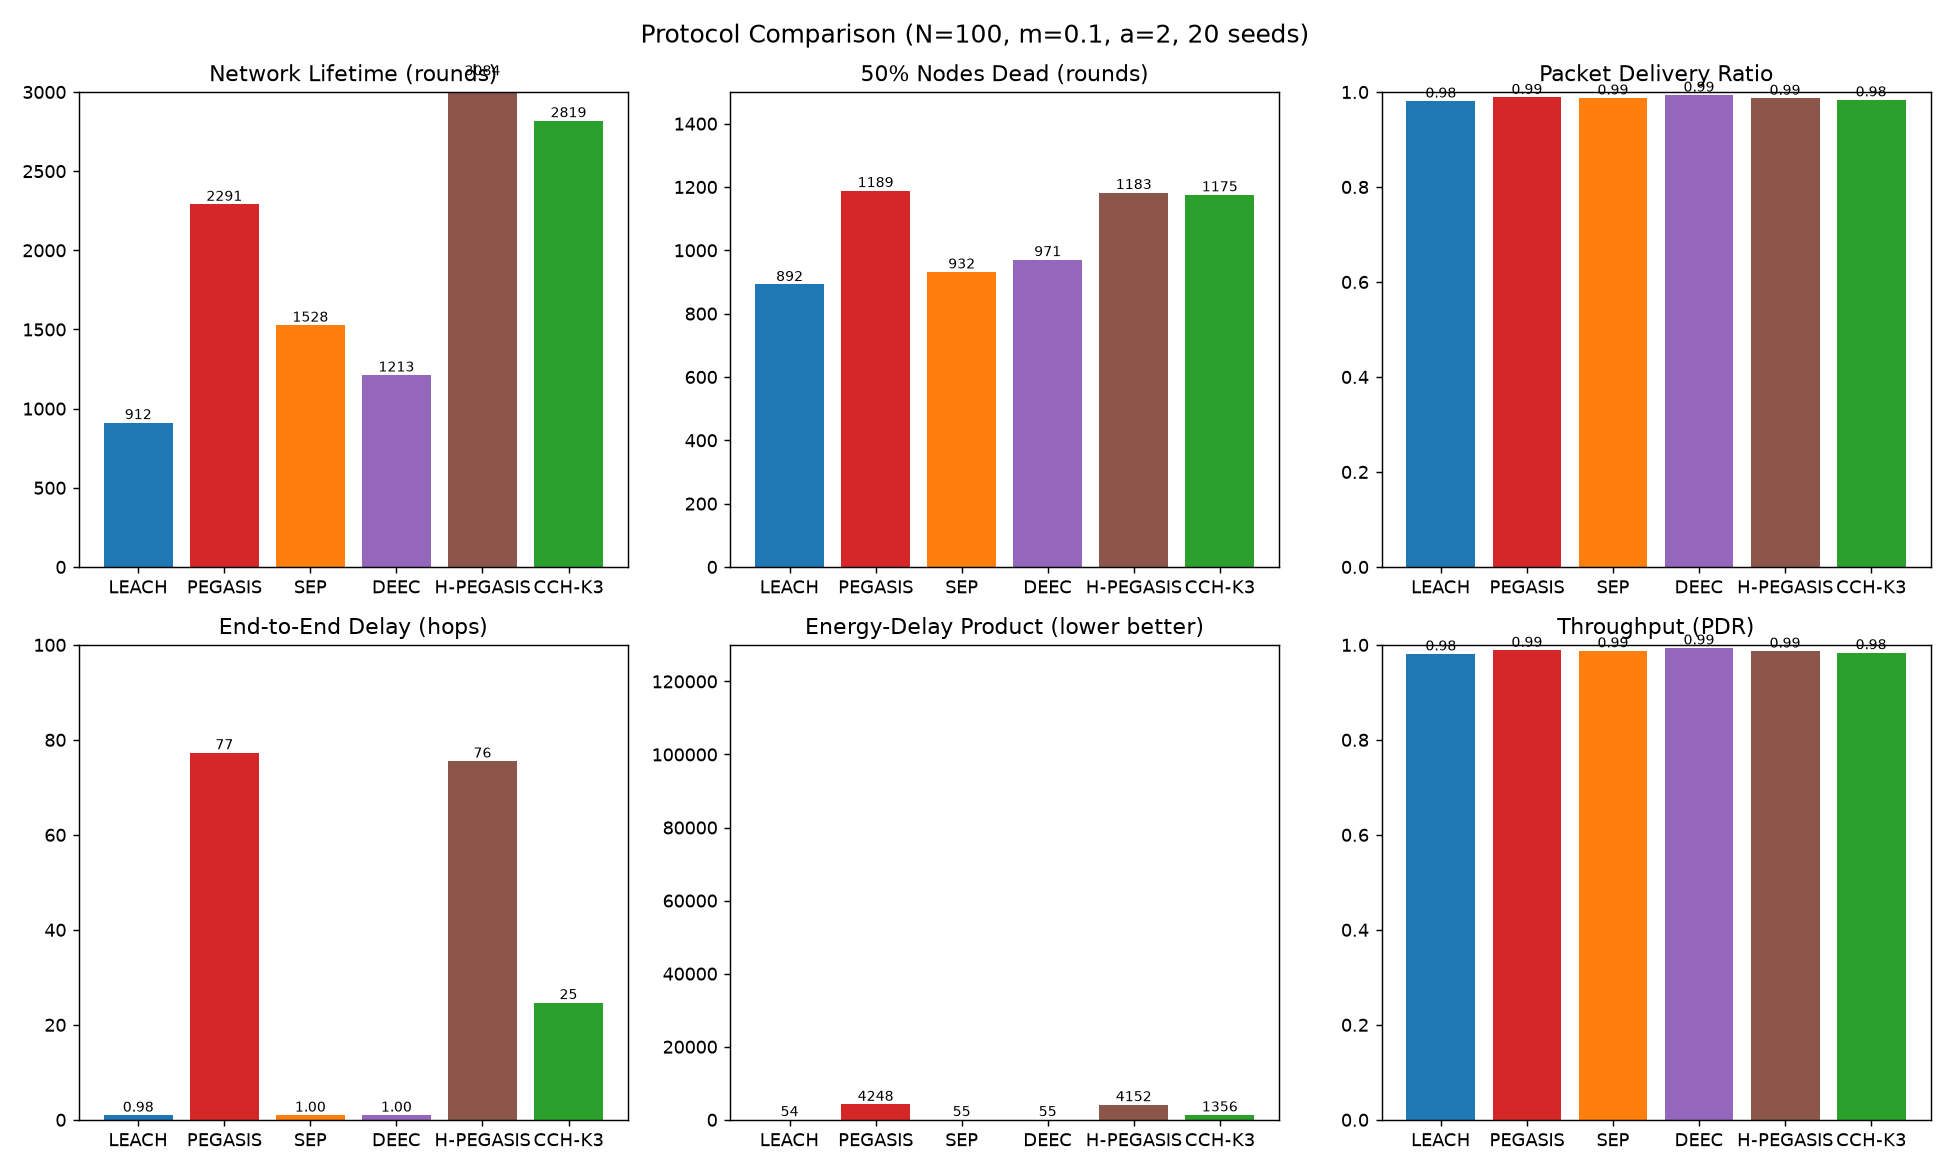
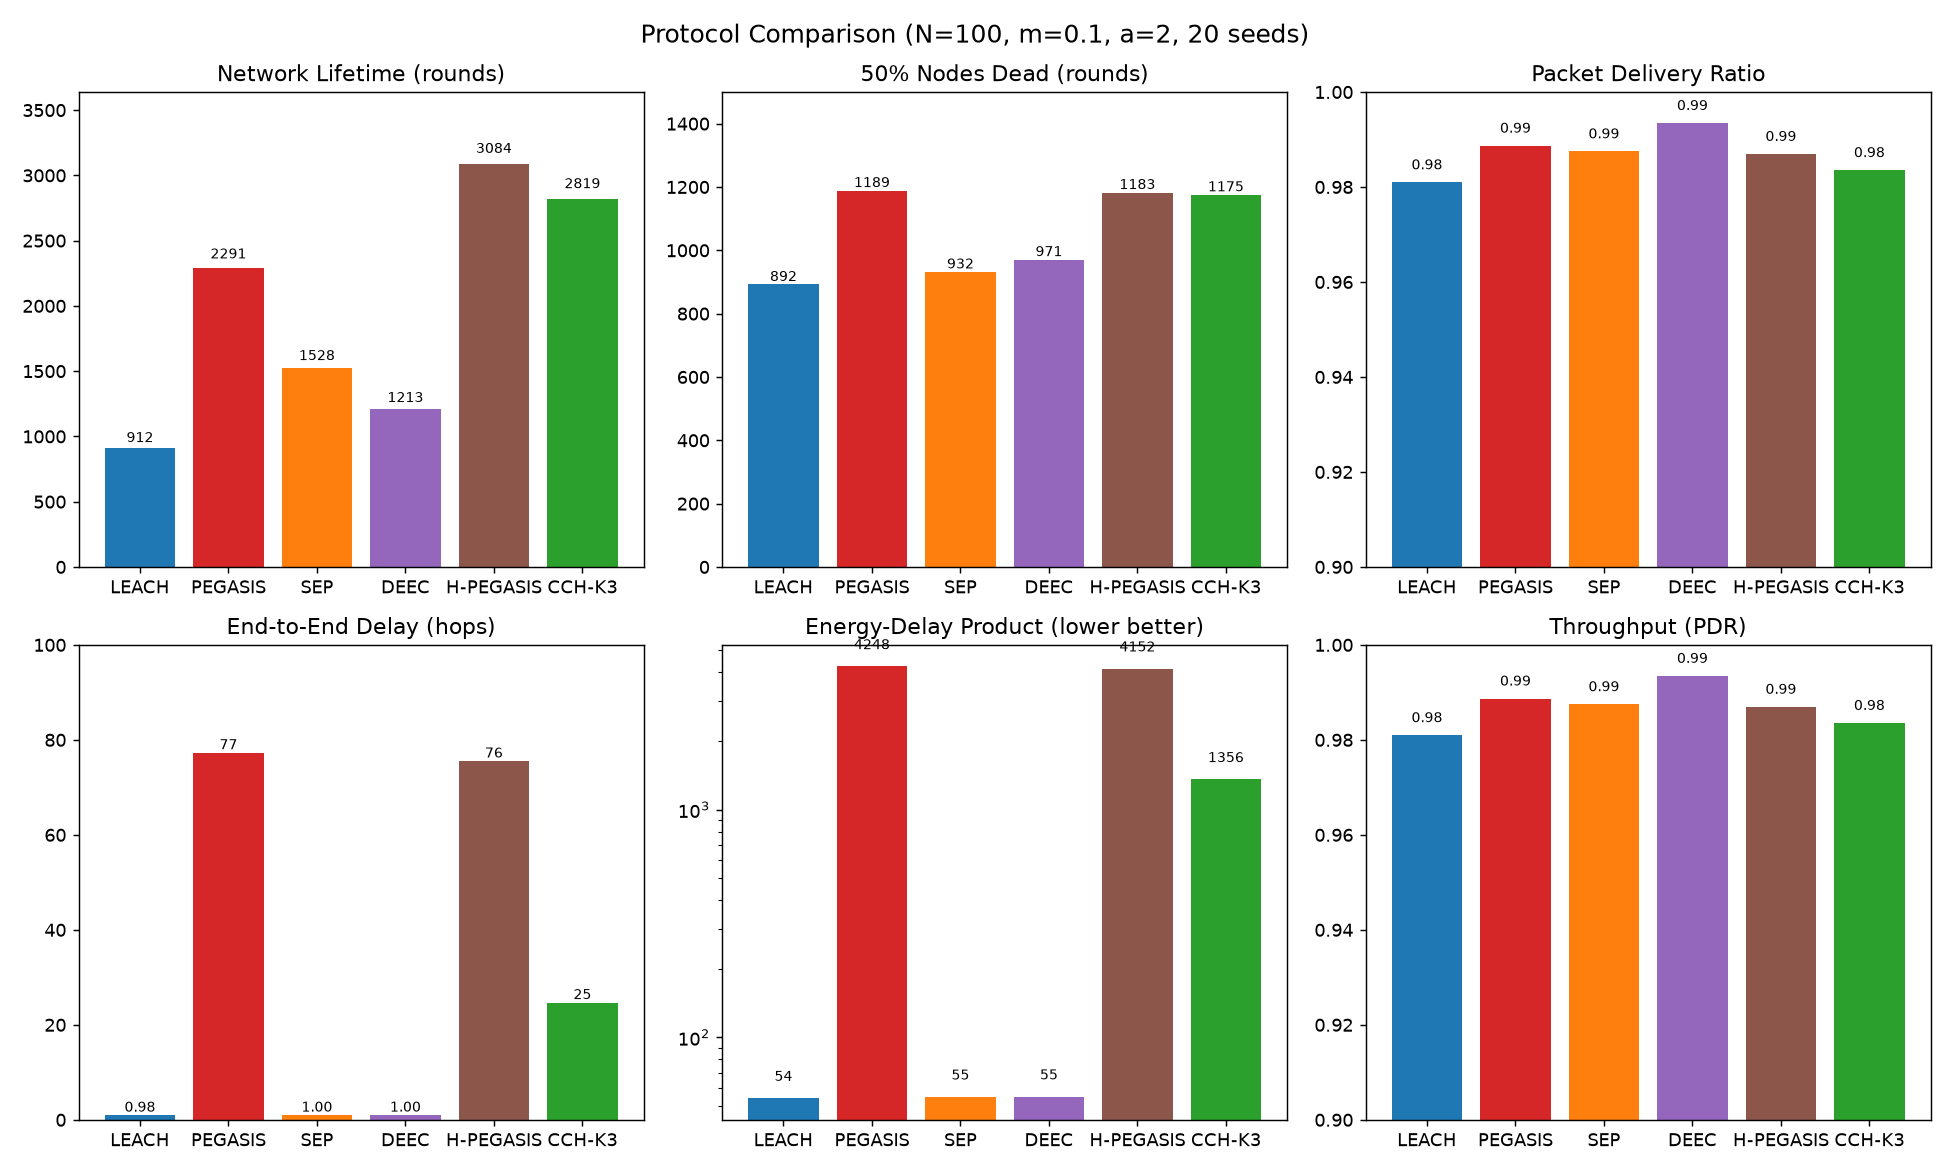
Rescale dashboard bar charts so differences are visible
- Lifetime panel auto-scales (H-PEGASIS 3084 was clipped at ymax 3000)
- PDR/throughput panels zoom to 0.9-1.0 (0.98 vs 0.99 was invisible)
- Energy x Delay panels use log scale (54 vs 4248 in one panel)

diff --git a/gen_dashboards.py b/gen_dashboards.py
@@ -106,14 +106,14 @@ comp = ['LEACH', 'PEGASIS', 'SEP', 'DEEC', 'H-PEGASIS', 'CCH-K3']
 fig, ax = plt.subplots(2, 3, figsize=(15, 9))
 fig.suptitle('Protocol Comparison (N=100, m=0.1, a=2, 20 seeds)', fontsize=14)
 panels = [
-    ('Network Lifetime (rounds)', 'LAST', 3000),
+    ('Network Lifetime (rounds)', 'LAST', None),   # auto: tallest bar + headroom
     ('50% Nodes Dead (rounds)', 'HND', 1500),
-    ('Packet Delivery Ratio', 'PDR', 1.0),
+    ('Packet Delivery Ratio', 'PDR', 'zoom'),      # zoomed y so 0.96 vs 0.99 is visible
     ('End-to-End Delay (hops)', 'DELAY', 100),
-    ('Energy-Delay Product (lower better)', None, 130000),
-    ('Throughput (PDR)', 'PDR', 1.0),
+    ('Energy-Delay Product (lower better)', None, 'log'),  # 54..4248: log shows all
+    ('Throughput (PDR)', 'PDR', 'zoom'),
 ]
-for i, (title, key, ymax) in enumerate(panels):
+for i, (title, key, scale) in enumerate(panels):
     r, c = divmod(i, 3)
     vals = []
     for p in comp:
@@ -126,10 +126,24 @@ for i, (title, key, ymax) in enumerate(panels):
     ax[r][c].bar(comp, vals, color=['#1f77b4', '#d62728', '#ff7f0e',
                                      '#9467bd', '#8c564b', '#2ca02c'])
     ax[r][c].set_title(title)
-    ax[r][c].set_ylim(0, ymax)
-    for j, v in enumerate(vals):
-        ax[r][c].text(j, v, f'{v:.0f}' if v > 10 else f'{v:.2f}',
-                      ha='center', va='bottom', fontsize=8)
+    if scale is None:
+        ax[r][c].set_ylim(0, max(vals) * 1.18)
+        for j, v in enumerate(vals):
+            ax[r][c].text(j, v * 1.02, f'{v:.0f}', ha='center', va='bottom', fontsize=8)
+    elif scale == 'zoom':  # PDR/throughput live in [0.9, 1.0]
+        ax[r][c].set_ylim(0.9, 1.0)
+        for j, v in enumerate(vals):
+            ax[r][c].text(j, min(v + 0.002, 0.997), f'{v:.2f}',
+                          ha='center', va='bottom', fontsize=8)
+    elif scale == 'log':
+        ax[r][c].set_yscale('log')
+        for j, v in enumerate(vals):
+            ax[r][c].text(j, v * 1.15, f'{v:.0f}', ha='center', va='bottom', fontsize=8)
+    else:
+        ax[r][c].set_ylim(0, scale)
+        for j, v in enumerate(vals):
+            ax[r][c].text(j, v, f'{v:.0f}' if v > 10 else f'{v:.2f}',
+                          ha='center', va='bottom', fontsize=8)
 plt.tight_layout()
 plt.savefig('comparison.png', dpi=130)
 plt.close()
@@ -164,11 +178,22 @@ for i, (title, key, ymax) in enumerate(tp):
                 vals.append(METR[p][key])
         ax[r][c].bar(trip, vals,
                      color=['#1f77b4', '#d62728', '#2ca02c'])
-        if ymax:
-            ax[r][c].set_ylim(0, ymax)
-        for j, v in enumerate(vals):
-            ax[r][c].text(j, v, f'{v:.0f}' if v > 10 else f'{v:.2f}',
-                          ha='center', va='bottom', fontsize=8)
+        if key == 'exd':  # 54..4248: log scale so LEACH is visible too
+            ax[r][c].set_yscale('log')
+            for j, v in enumerate(vals):
+                ax[r][c].text(j, v * 1.15, f'{v:.0f}',
+                              ha='center', va='bottom', fontsize=8)
+        elif key == 'PDR':  # zoom so 0.98 vs 0.99 differences show
+            ax[r][c].set_ylim(0.9, 1.0)
+            for j, v in enumerate(vals):
+                ax[r][c].text(j, min(v + 0.002, 0.997), f'{v:.2f}',
+                              ha='center', va='bottom', fontsize=8)
+        else:
+            if ymax:
+                ax[r][c].set_ylim(0, ymax)
+            for j, v in enumerate(vals):
+                ax[r][c].text(j, v, f'{v:.0f}' if v > 10 else f'{v:.2f}',
+                              ha='center', va='bottom', fontsize=8)
     ax[r][c].set_title(title)
 plt.tight_layout()
 plt.savefig('dashboard.png', dpi=130)
